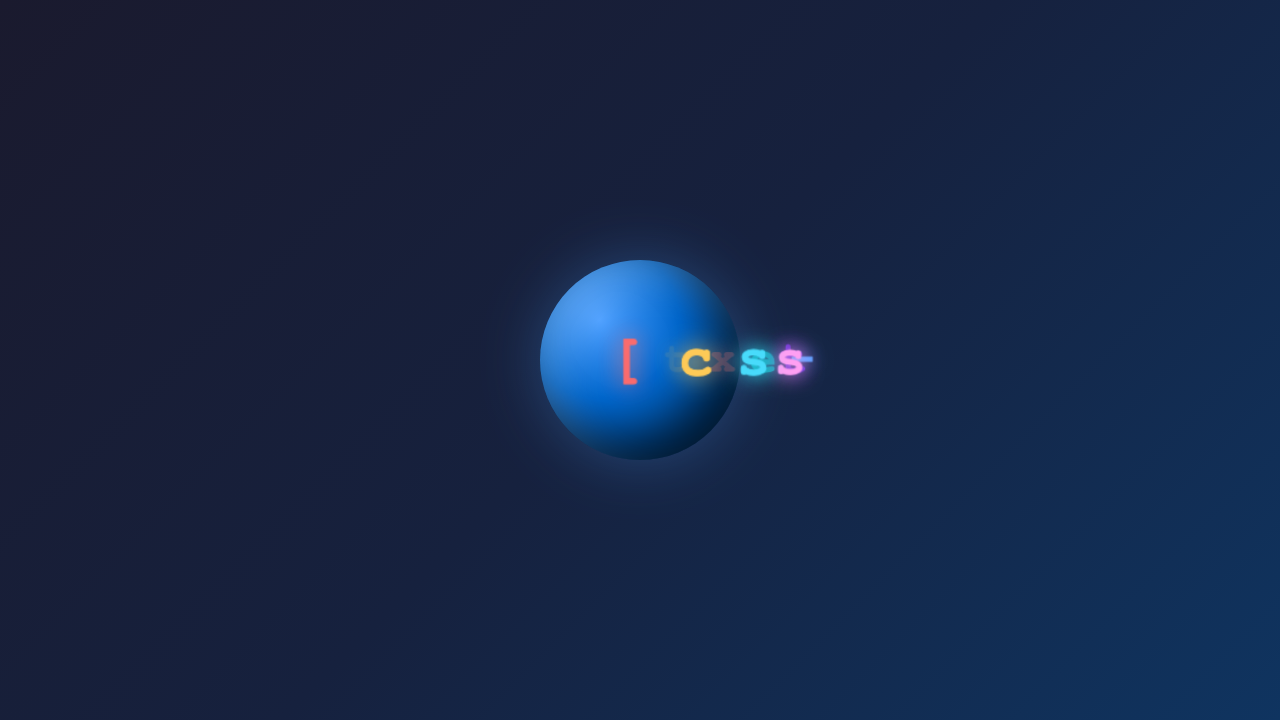
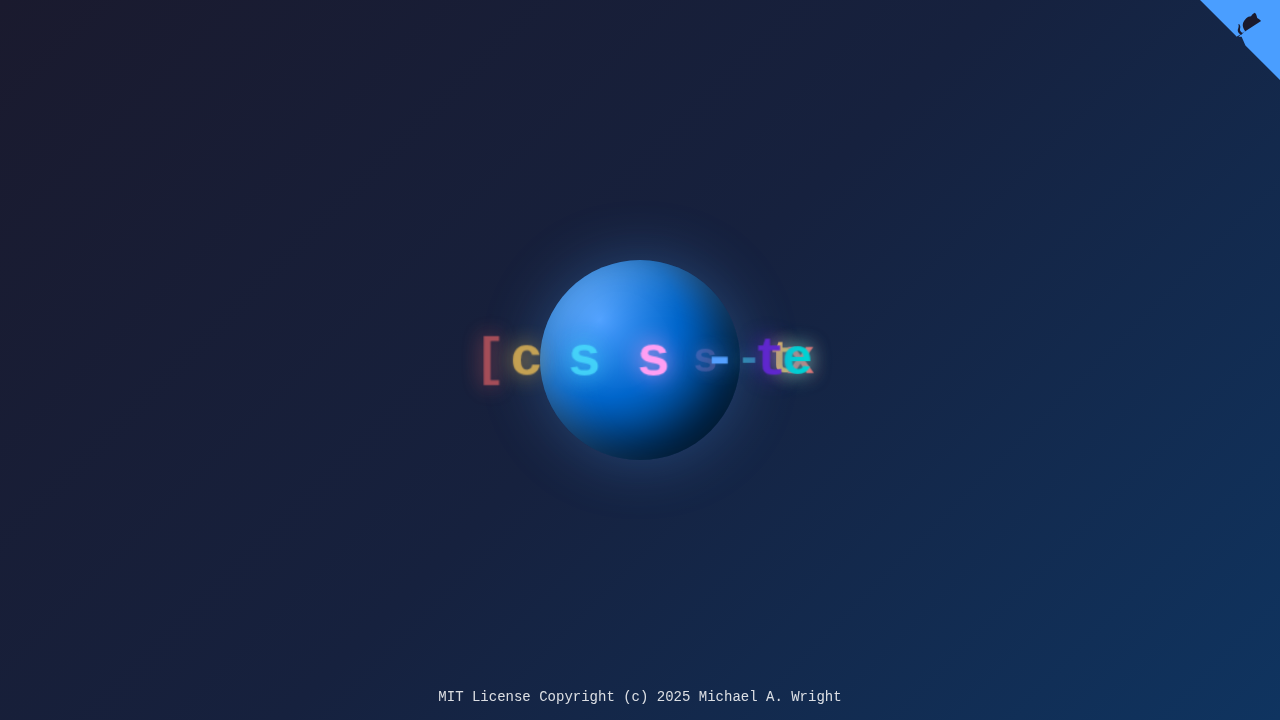
Add GitHub corner ribbon and MIT license footer
- Add "Fork me on GitHub" triangle link in top-right corner
- Add footer with MIT License Copyright (c) 2025 Michael A. Wright
- Update screenshot to show new UI elements

🤖 Generated with [Claude Code](https://claude.com/claude-code)

Changed region(s): [[0.375, 0.4583, 0.6562, 0.55], [0.3438, 0.9472, 0.6562, 0.9778], [0.9375, 0.0, 1.0, 0.1222]]

diff --git a/docs/index.html b/docs/index.html
@@ -8,6 +8,14 @@
   <link rel="icon" href="favicon.ico">
 </head>
 <body>
+  <a href="https://github.com/softwarewrighter/css-text-sphere" class="github-corner" aria-label="Fork me on GitHub">
+    <svg width="80" height="80" viewBox="0 0 250 250" aria-hidden="true">
+      <path d="M0,0 L115,115 L130,115 L142,142 L250,250 L250,0 Z"></path>
+      <path d="M128.3,109.0 C113.8,99.7 119.0,89.6 119.0,89.6 C122.0,82.7 120.5,78.6 120.5,78.6 C119.2,72.0 123.4,76.3 123.4,76.3 C127.3,80.9 125.5,87.3 125.5,87.3 C122.9,97.6 130.6,101.9 134.4,103.2" fill="currentColor" style="transform-origin: 130px 106px;" class="octo-arm"></path>
+      <path d="M115.0,115.0 C114.9,115.1 118.7,116.5 119.8,115.4 L133.7,101.6 C136.9,99.2 139.9,98.4 142.2,98.6 C133.8,88.0 127.5,74.4 143.8,58.0 C148.5,53.4 154.0,51.2 159.7,51.0 C160.3,49.4 163.2,43.6 171.4,40.1 C171.4,40.1 176.1,42.5 178.8,56.2 C183.1,58.6 187.2,61.8 190.9,65.4 C## 194.5,69.0 197.7,73.2 200.1,77.6 C213.8,80.2 216.3,84.9 216.3,84.9 C212.7,93.1 206.9,96.0 205.4,96.6 C## 205.1,102.4 203.0,107.8 198.3,112.5 C181.9,128.9 168.3,122.5 157.7,114.1 C## 157.9,116.9 156.7,120.9 152.7,124.9 L## 141.0,136.5 C139.8,137.7 141.6,141.9 141.8,141.8 Z" fill="currentColor" class="octo-body"></path>
+    </svg>
+  </a>
+
   <div class="scene">
     <div class="sphere"></div>
     <div class="orbit-container">
@@ -30,5 +38,9 @@
       <div class="text orbit-17">]</div>
     </div>
   </div>
+
+  <footer class="site-footer">
+    MIT License Copyright (c) 2025 Michael A. Wright
+  </footer>
 </body>
 </html>

diff --git a/docs/styles.css b/docs/styles.css
@@ -7,11 +7,48 @@
 body {
   min-height: 100vh;
   display: flex;
+  flex-direction: column;
   justify-content: center;
   align-items: center;
   background: linear-gradient(135deg, #1a1a2e 0%, #16213e 50%, #0f3460 100%);
   overflow: hidden;
   font-family: 'Courier New', monospace;
+}
+
+/* GitHub Corner */
+.github-corner {
+  position: fixed;
+  top: 0;
+  right: 0;
+  z-index: 1000;
+}
+
+.github-corner svg {
+  fill: #4a9eff;
+  color: #1a1a2e;
+  border: 0;
+}
+
+.github-corner:hover .octo-arm {
+  animation: octocat-wave 560ms ease-in-out;
+}
+
+@keyframes octocat-wave {
+  0%, 100% { transform: rotate(0); }
+  20%, 60% { transform: rotate(-25deg); }
+  40%, 80% { transform: rotate(10deg); }
+}
+
+/* Footer */
+.site-footer {
+  position: fixed;
+  bottom: 0;
+  left: 0;
+  right: 0;
+  padding: 15px;
+  text-align: center;
+  color: rgba(255, 255, 255, 0.85);
+  font-size: 14px;
 }
 
 .scene {

diff --git a/README.md b/README.md
@@ -4,7 +4,7 @@ A pure HTML/CSS 3D text orbiting sphere demo. No JavaScript, Rust, or frameworks
 
 [**View Live Demo**](https://softwarewrighter.github.io/css-text-sphere/)
 
-![Screenshot](images/screenshot.png?ts=1766771124506)
+![Screenshot](images/screenshot.png?ts=1735272000000)
 
 ## Features
 
